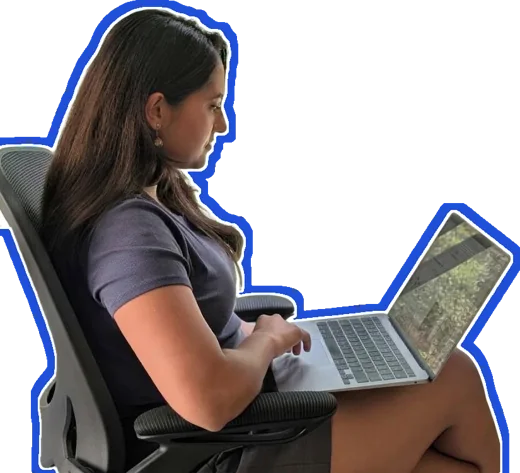
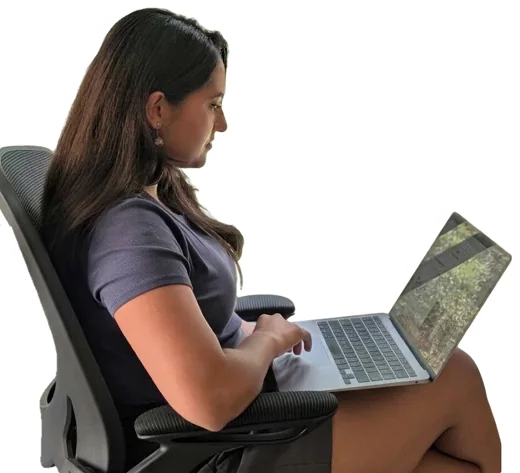
Why me: white-outline portrait cutout, 40+ clients consulted; video card cutout switched to white outline
Claude-Session: https://claude.ai/code/session_01GC3vSxPiEHdqQLqLq9626o

diff --git a/index.html b/index.html
@@ -1093,6 +1093,13 @@ footer nav a[href]{background:none!important;color:#E4E9EF!important;padding:0!i
 <style>.wz-h{max-width:20em}.wz-h em{font-style:normal;color:#1F4FD8;background:linear-gradient(transparent 62%,#FFE7A3 62%)}
 .wz-list li.wz-lh{padding:6px 0 10px;border:0!important;font-family:Figtree,sans-serif;font-size:11.5px;font-weight:700;letter-spacing:.14em;text-transform:uppercase;color:#586A7C}
 .wz-list li.wz-lh+li{border-top:0}</style>
+<style>/* why me photo */
+.ag-head{position:relative}
+.ag-photo{position:absolute;right:0;bottom:-48px;width:170px;z-index:0;pointer-events:none;filter:drop-shadow(0 14px 22px rgba(31,79,216,.25))}
+.ag-card{position:relative;z-index:1}
+.hw-vid::before{filter:drop-shadow(0 10px 14px rgba(31,79,216,.2))}
+@media (max-width:900px){.ag-photo{width:120px;right:-4px;bottom:-34px}.ag-head{padding-right:110px;text-align:left;align-items:flex-start!important}}
+</style>
 </head>
 <body>
 <div style="font-family: 'Figtree', system-ui, sans-serif; color: #14213D; background: #F9F9FA; font-size: 17px; line-height: 1.6">
@@ -1174,13 +1181,13 @@ footer nav a[href]{background:none!important;color:#E4E9EF!important;padding:0!i
 
 <section id="agency" class="ag">
 <div class="ag-in">
-<div class="ag-head reveal"><span class="wn-kick">Why me</span><h2>Not your typical agency.</h2><p>Agencies sell virality. I build trust that lasts.</p></div>
+<div class="ag-head reveal"><img class="ag-photo" src="img/me-portrait.webp" alt="Ultha"><span class="wn-kick">Why me</span><h2>Not your typical agency.</h2><p>Agencies sell virality. I build trust that lasts.</p></div>
 <div class="ag-card reveal">
-<div class="ag-row ag-top"><span></span><span class="ag-th"><span class="ag-team" aria-hidden="true"><i></i><i></i><i></i></span>Typical agency</span><span class="ag-th ag-me"><img src="img/me-smile.jpg" alt="Ultha" width="36" height="36">With me</span></div>
+<div class="ag-row ag-top"><span></span><span class="ag-th"><span class="ag-team" aria-hidden="true"><i></i><i></i><i></i></span>Typical agency</span><span class="ag-th ag-me">With me</span></div>
 <div class="ag-row"><span class="ag-k">Who you work with</span><span class="ag-old">A non-technical agency team</span><span class="ag-new">A former product manager and marketer who gets your product</span></div><div class="ag-row"><span class="ag-k">What you get</span><span class="ag-old">Virality that doesn’t last</span><span class="ag-new">Proof that builds lasting trust</span></div><div class="ag-row"><span class="ag-k">How it’s scoped</span><span class="ag-old">Retainers with no end date</span><span class="ag-new">Clear timeline, clear deliverables</span></div>
 </div>
 <div class="ag-proof reveal">
-<div class="ag-nums"><div><b>40+</b><span>clients</span></div><div><b>7</b><span>countries</span></div><div><b>25+</b><span>major feature launches</span></div><div><b class="ag-stars">★★★★★</b><span>client reviews</span></div></div>
+<div class="ag-nums"><div><b>40+</b><span>clients consulted</span></div><div><b>7</b><span>countries</span></div><div><b>25+</b><span>major feature launches</span></div><div><b class="ag-stars">★★★★★</b><span>client reviews</span></div></div>
 </div>
 <p class="ag-foot reveal">A viral post lasts a week. <b>A customer story lasts years.</b></p>
 </div>
